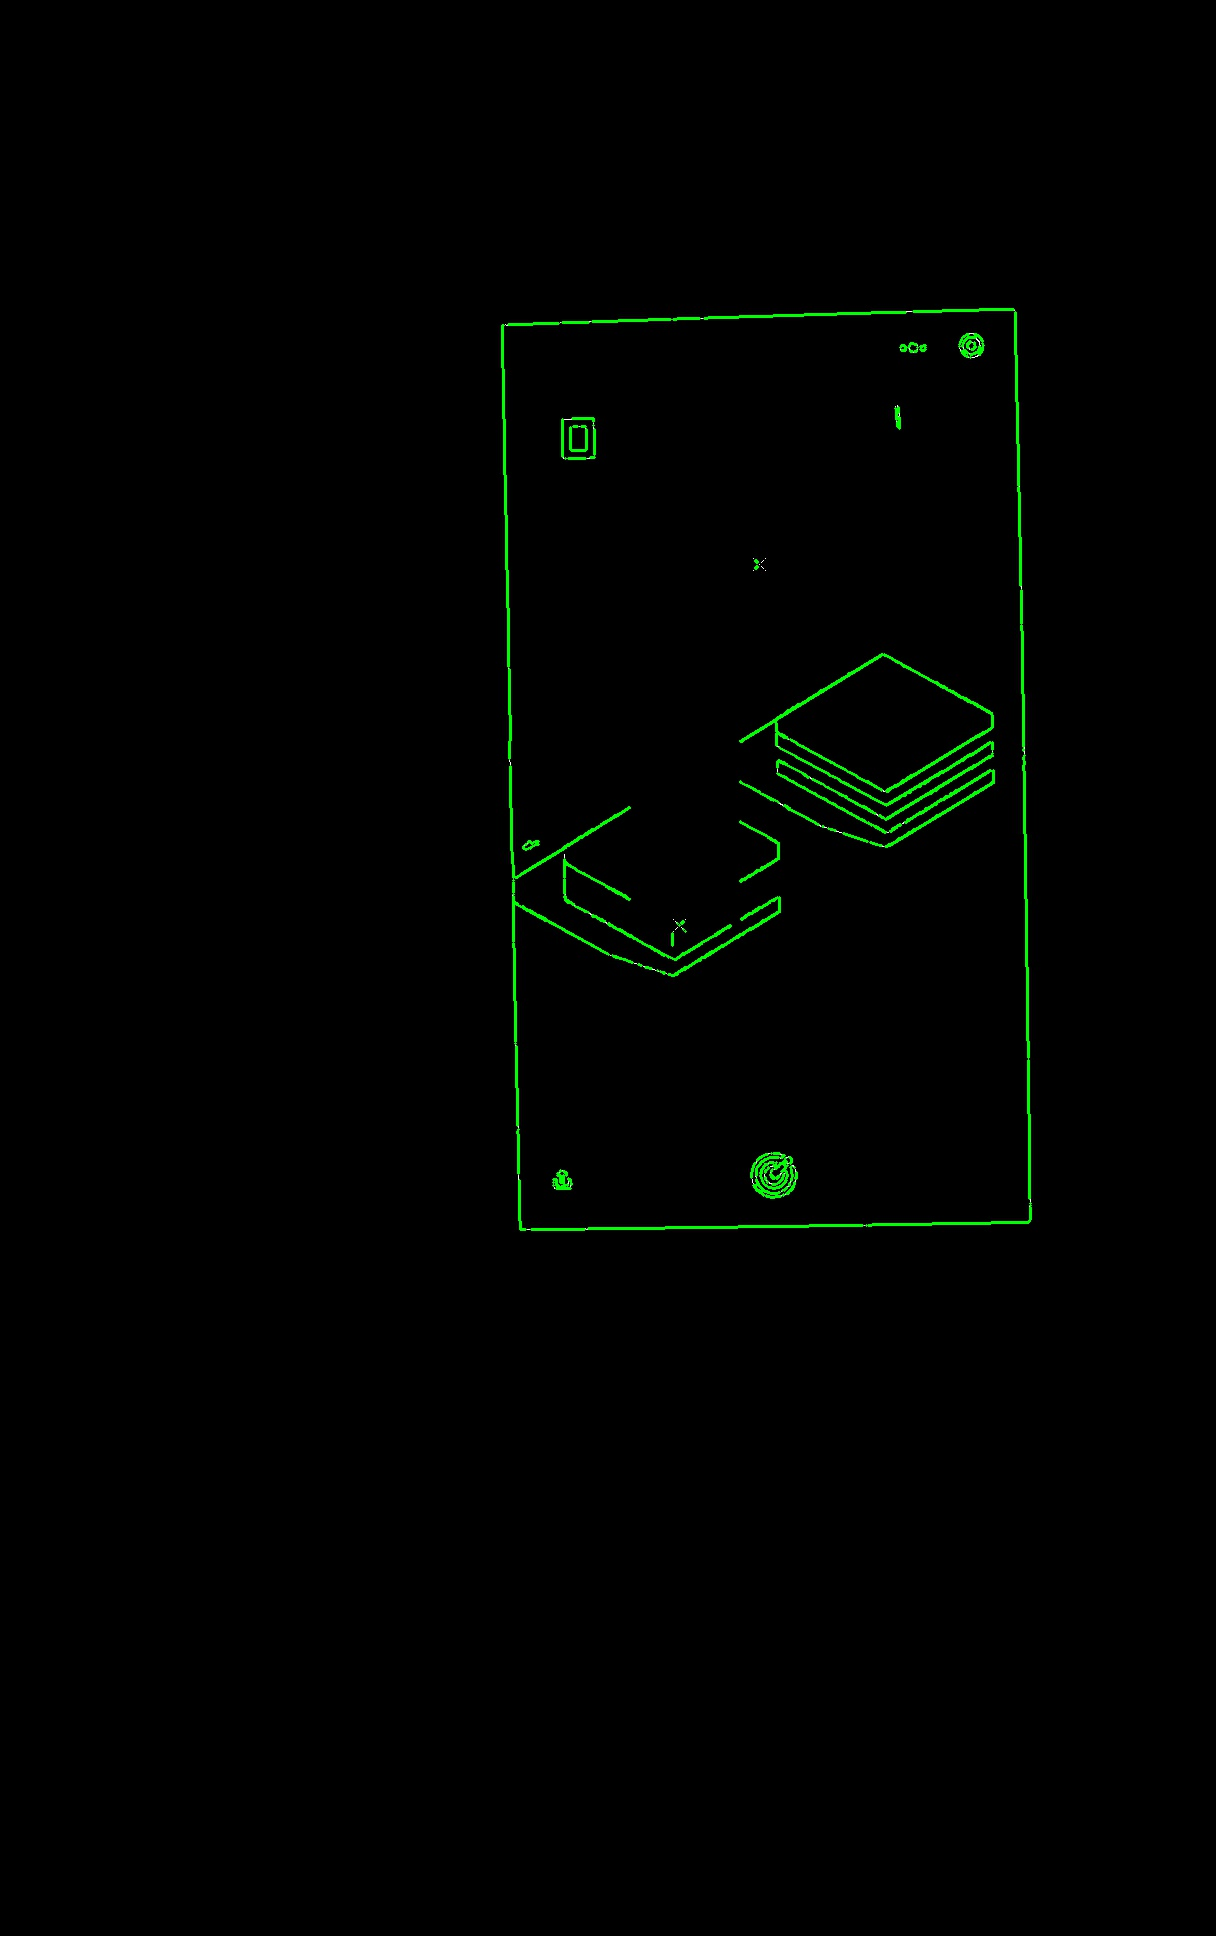
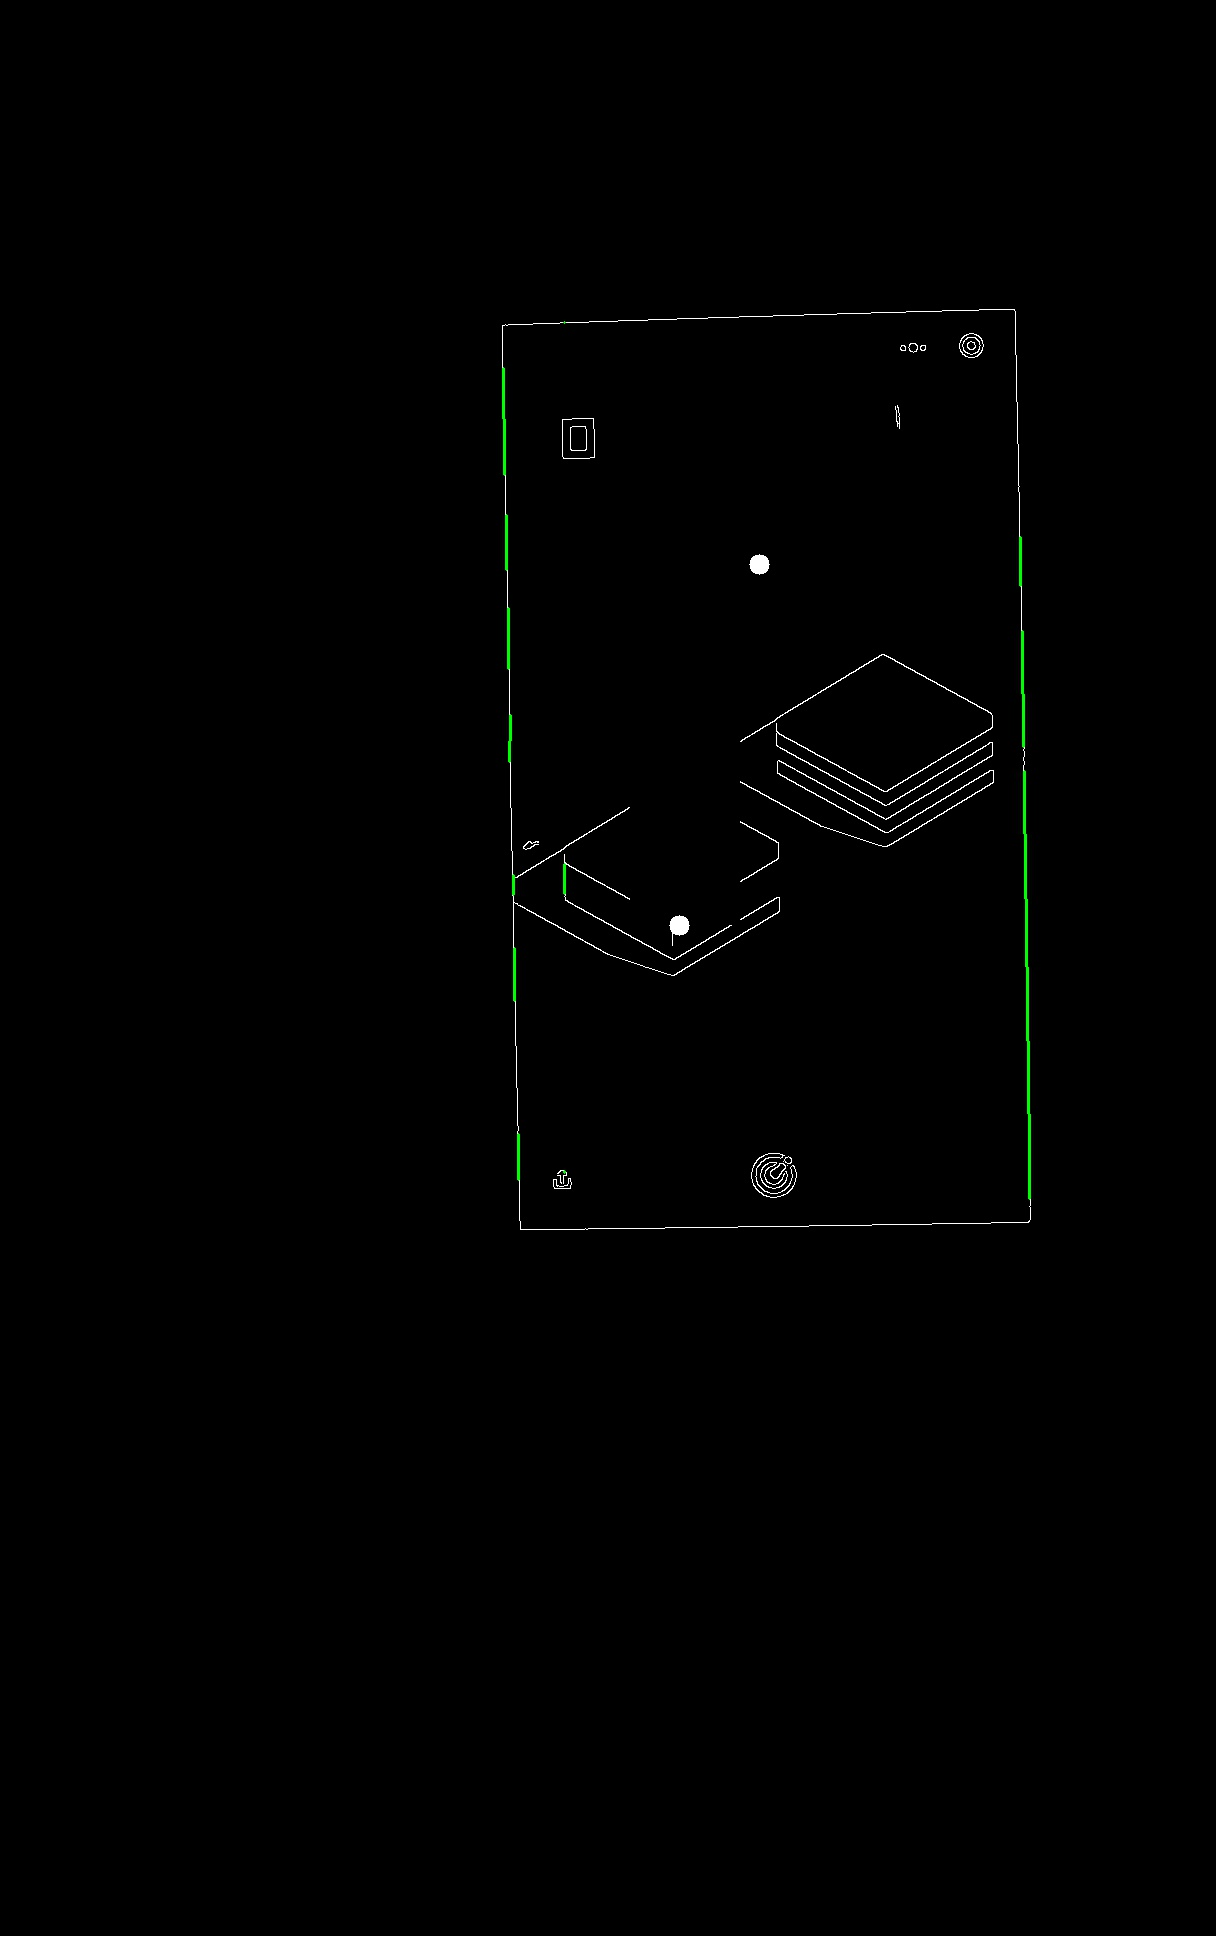
aa

diff --git a/test.py b/test.py
@@ -2,42 +2,56 @@
 # import numpy as np
 
 # img = cv2.imread('last.png')
+# cv2.imshow("img",img)
+# # gray=img
 # gray = cv2.cvtColor(img,cv2.COLOR_BGR2GRAY)
-# edges=gray
 # # edges = cv2.Canny(gray,50,150,apertureSize = 3)
-
-# lines = cv2.HoughLines(edges,1,np.pi/180,1)
-# print(lines)
+# edges=gray
+# minLineLength = 100000000
+# maxLineGap = 0.001
+# lines = cv2.HoughLinesP(edges,0.1,np.pi/1,50,minLineLength,maxLineGap)
+# cnt=0
 # for line in lines:
-#     for rho,theta in line:
-#         a = np.cos(theta)
-#         b = np.sin(theta)
-#         x0 = a*rho
-#         y0 = b*rho
-#         x1 = int(x0 + 1000*(-b))
-#         y1 = int(y0 + 1000*(a))
-#         x2 = int(x0 - 1000*(-b))
-#         y2 = int(y0 - 1000*(a))
+#     for x1,y1,x2,y2 in line:
+#         cv2.line(img,(x1,y1),(x2,y2),(0,255,0),2)
+#         cnt+=1
+# print(cnt)
 
-#         cv2.line(img,(x1,y1),(x2,y2),(0,0,255),2)
+# cv2.imwrite('houghlines5.jpg',img)
+import cv2  
+  
+img = cv2.imread('6.png')  
+gray = cv2.cvtColor(img,cv2.COLOR_BGR2GRAY)  
+ret, binary = cv2.threshold(gray,127,255,cv2.THRESH_BINARY)   
+  
+# _,contours, hierarchy = cv2.findContours(binary,cv2.RETR_TREE,cv2.CHAIN_APPROX_SIMPLE)  
+_,contours, hierarchy = cv2.findContours(binary, cv2.RETR_EXTERNAL,cv2.CHAIN_APPROX_SIMPLE)  
+cv2.drawContours(img,contours,0,(255,255,255),10)  
+  
 
-# cv2.imwrite('houghlines3.jpg',img)
 
 
-import cv2
-import numpy as np
+pentagram = contours[0] 
+leftmost = tuple(pentagram[:,0][pentagram[:,:,0].argmin()])  
+rightmost = tuple(pentagram[:,0][pentagram[:,:,0].argmax()]) 
+upmost = tuple(pentagram[:,0][pentagram[:,:,1].argmax()])  
+downmost = tuple(pentagram[:,0][pentagram[:,:,1].argmin()]) 
 
-img = cv2.imread('skel0.png')
-cv2.imshow("img",img)
-# gray=img
-gray = cv2.cvtColor(img,cv2.COLOR_BGR2GRAY)
-# edges = cv2.Canny(gray,50,150,apertureSize = 3)
-edges=gray
-minLineLength = 100000000
-maxLineGap = 0.001
-lines = cv2.HoughLinesP(edges,1,np.pi/10000,10,minLineLength,maxLineGap)
-for line in lines:
-    for x1,y1,x2,y2 in line:
-        cv2.line(img,(x1,y1),(x2,y2),(0,255,0),2)
 
-cv2.imwrite('houghlines5.jpg',img)
+print(pentagram[:,0][:,0])
+
+print(leftmost) 
+print(rightmost)
+print(downmost)
+print(upmost)
+
+  
+cv2.circle(img, leftmost, 2, (0,255,0),5)   
+cv2.circle(img, rightmost, 2, (0,255,0),5)  
+cv2.circle(img, upmost, 2, (0,255,0),5)  
+cv2.circle(img, downmost, 2, (0,255,0),5)  
+print(contours[0].shape)  
+
+cv2.imwrite("point.png",img)
+# cv2.imshow("img", img)  
+# cv2.waitKey(0)  

diff --git a/play.py b/play.py
@@ -88,30 +88,17 @@ for i in range(10000):
         x_center, y_center = max_loc2[0] + w2 // 2, max_loc2[1] + h2 // 2
     else:
         # 边缘检测
-        # h, w = img_rgb.shape[:2]   
-        # mask = np.zeros((h+2, w+2), np.uint8)
-
-        # cv2.floodFill(img_rgb, mask, (w-1,h-1), (255,255,255), (2,2,2),(3,3,3),8)
-        # gray = cv2.cvtColor(img_rgb, cv2.COLOR_BGR2GRAY)
-        # img_rgb = cv2.adaptiveThreshold(gray, 255, cv2.ADAPTIVE_THRESH_MEAN_C, cv2.THRESH_BINARY, 9, 2)
-
-
-        # mean = np.uint8(np.mean(img_rgb))
-        # img_rgb = img_rgb - mean
-        # img_rgb=img_rgb+ mean*100
-        # img_rgb=np.uint8(img_rgb)
         img_rgb = cv2.GaussianBlur(img_rgb, (3, 3), 0)
         # cv2.imwrite('last.png', img_rgb)
+        # canny_img = cv2.Canny(img_rgb,200, 500)
         canny_img = cv2.Canny(img_rgb,100, 200)
         # img_rgb=cv2.floodFill(img_rgb, mask, (w-1,h-1), (255,255,255), (2,2,2),(3,3,3),8)
         H, W = canny_img.shape
-
+        cv2.imwrite("canny.png",canny_img)
         # 消去小跳棋轮廓对边缘检测结果的干扰
         for k in range(max_loc1[1] - 10, max_loc1[1] + 189):
             for b in range(max_loc1[0] - 10, max_loc1[0] + 100):
                 canny_img[k][b] = 0
-
-        print(canny_img)
         img_rgb, x_center, y_center = get_center(canny_img)
 
     # 将图片输出以供调试

diff --git a/warp.py b/warp.py
@@ -1,0 +1,16 @@
+import cv2
+import numpy as np
+import matplotlib.pyplot as plt
+img = cv2.imread('last.png')
+rows, cols = img.shape[:2]
+# 原图中卡片的四个角点
+pts1 = np.float32([[502, 325],[979, 309],  [520, 1229],[1030, 1219]])
+# 变换后分别在左上、右上、左下、右下四个点
+pts2 = np.float32([[0, 0], [480, 0], [0, 900], [480, 900]])
+# 生成透视变换矩阵
+M = cv2.getPerspectiveTransform(pts1, pts2)
+# 进行透视变换
+dst = cv2.warpPerspective(img, M, (480, 900))
+plt.subplot(121), plt.imshow(img[:, :, ::-1]), plt.title('input')
+plt.subplot(122), plt.imshow(dst[:, :, ::-1]), plt.title('output')
+plt.show()
